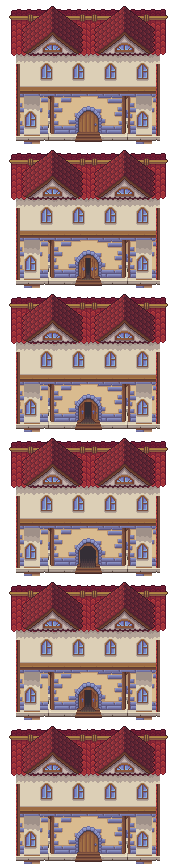
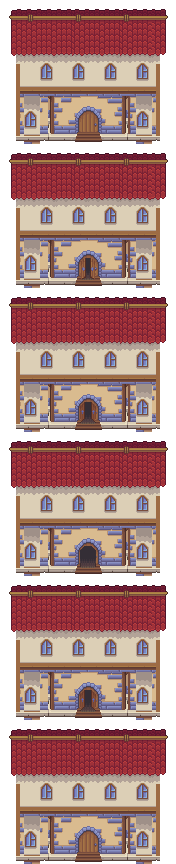
Clean native building seams, move spawn left and unify village labels

diff --git a/app/src/main/java/de/pixelabenteuer/game/MainActivity.java b/app/src/main/java/de/pixelabenteuer/game/MainActivity.java
@@ -39,6 +39,9 @@ public class MainActivity extends Activity {
  class Game extends View {
   final int WORLD_W=1600,WORLD_H=1000;
   Canvas canvas;Paint paint=new Paint();Random random=new Random(42);
+  final Typeface residentTypeface=Typeface.create("cursive",Typeface.NORMAL);
+  final Typeface buildingTypeface=Typeface.create("serif",Typeface.BOLD_ITALIC);
+  static final float RESIDENT_LABEL_SIZE=13f,BUILDING_LABEL_SIZE=13f;
   ArrayList<Mob> mobs=new ArrayList<>();ArrayList<Decoration> decorations=new ArrayList<>();ArrayList<Drop> drops=new ArrayList<>();LinkedHashMap<String,Integer> inventory=new LinkedHashMap<>();HashMap<String,Bitmap> itemImages=new HashMap<>();
   HashMap<String,Item> definitions=new HashMap<>();HashMap<String,String> equipped=new HashMap<>();
   int nextGearId=1;
@@ -64,7 +67,7 @@ public class MainActivity extends Activity {
   String[] sellerStock={"Apple","Green Apple","Ham","Cheese","Mushroom","Healthpotion","Healthpotion large","Healpotion med"};
   String pickupNotice="";float noticeTime=0;
   HashMap<String,Bitmap> sprites=new HashMap<>();HashMap<String,Bitmap> characterSheets=new HashMap<>();
-  static final float SPAWN_X=410,SPAWN_Y=191;
+  static final float SPAWN_X=184,SPAWN_Y=191;
   float px=SPAWN_X,py=SPAWN_Y,joyX=0,joyY=0,elapsed=0,worldTime=0,attackAnim=0,hurtAnim=0,deathAnim=0,attackCooldown=0,playerHealthVisible=0;
   int hp=12,maxHp=12,kills=0,animalKills=0,playerDir=0,playerLevel=1,exp=0,attackPower=3,lastPlayerDamage=0;float playerDamageTime=0;float swordTimer=0;boolean sword=false;
   long previous=System.nanoTime();
@@ -398,7 +401,7 @@ public class MainActivity extends Activity {
     Bitmap sprite=villageArt.get(houseArt);
     if(sprite!=null)villageTile(houseDoorFrame(index)>0?"door"+index:houseArt,0,houseDoorFrame(index)*sprite.getHeight(),sprite.getWidth(),sprite.getHeight(),h[0]-sprite.getWidth()*.8f,h[1]+115-sprite.getHeight()*1.6f,sprite.getWidth()*1.6f,sprite.getHeight()*1.6f);
     if(index==1||index==4)villageTile("chimney_animation",0,((int)(elapsed*5)%6)*48,48,48,h[0]-144*.8f+17*1.6f,h[1]+115-128*1.6f+2*1.6f,48*1.6f,48*1.6f);
-    paint.setTextAlign(Paint.Align.CENTER);paint.setTextSize(13);fantasyName(villageNames[index],h[0],h[1]+105-(sprite==null?205:sprite.getHeight()*1.6f));paint.setTextAlign(Paint.Align.LEFT);
+    drawBuildingName(villageNames[index],h[0],h[1]+105-(sprite==null?205:sprite.getHeight()*1.6f));
    }
    // Six 48px cells: crop only the smoke above the embedded chimney/roof.
    if(index==0)villageTile("Smoke_animation",((int)(elapsed*5)%6)*48,0,32,28,h[0]-(index==0?65:78),h[1]-(index==0?162:106),45,39);
@@ -407,7 +410,9 @@ public class MainActivity extends Activity {
   void drawVillageProp(VillageProp p){
    int sy=p.sy+(p.frames>1?((int)(elapsed*6+p.x/70)%p.frames)*p.sh:0);
    canvas.save();if(!p.atlas.equals("shrine"))canvas.scale(1f,1f/CAMERA_GROUND_Y,p.x,p.y);
-   villageTile(p.atlas,p.sx,sy,p.sw,p.sh,p.x-p.w/2,p.y-p.h,p.w,p.h);canvas.restore();
+   villageTile(p.atlas,p.sx,sy,p.sw,p.sh,p.x-p.w/2,p.y-p.h,p.w,p.h);
+   if(p.atlas.equals("tower"))drawBuildingName("Wachturm",p.x,p.y-p.h-10);
+   canvas.restore();
   }
   boolean villageObstacle(float x,float y){
    for(int i=1;i<villageHouses.length;i++){float[] h=villageHouses[i];if(Math.abs(x-h[0]-villageDoorOffsets[i])<20&&y>h[1]+94)continue;if(x>h[0]-111&&x<h[0]+112&&y>h[1]+48&&y<h[1]+116)return true;}
@@ -461,10 +466,12 @@ public class MainActivity extends Activity {
    n.speak();if(n.merchant>=0)showMerchant(n.merchant);return true;
   }
   void drawNameTitle(String name,String title,float x,float y){
+   canvas.save();if(!indoors)canvas.scale(1f/1.10f,1f/1.10f,x,y);
+   boolean antialias=paint.isAntiAlias();paint.setAntiAlias(true);
    Paint.Align align=paint.getTextAlign();Typeface face=paint.getTypeface();float size=paint.getTextSize();int color=paint.getColor();
-   paint.setTextAlign(Paint.Align.CENTER);paint.setTypeface(Typeface.DEFAULT_BOLD);paint.setTextSize(12);paint.setColor(col("#fff0c8"));outlinedText(name,x,y);
-   paint.setTextSize(10);paint.setColor(col("#c28aff"));outlinedText(title,x,y+12);
-   paint.setTextAlign(align);paint.setTypeface(face);paint.setTextSize(size);paint.setColor(color);
+   paint.setTextAlign(Paint.Align.CENTER);paint.setTypeface(residentTypeface);paint.setTextSize(RESIDENT_LABEL_SIZE);paint.setColor(col("#fff0c8"));outlinedText(name,x,y);
+   paint.setColor(col("#c28aff"));outlinedText(title,x,y+15);
+   paint.setTextAlign(align);paint.setTypeface(face);paint.setTextSize(size);paint.setColor(color);paint.setAntiAlias(antialias);canvas.restore();
   }
   void drawResidentSpeech(VillageResidents.Resident n,float x,float y){
    if(n.speechTime<=0||n.speech.isEmpty())return;
@@ -593,7 +600,7 @@ public class MainActivity extends Activity {
    paint.setTextAlign(Paint.Align.CENTER);paint.setTextSize(12);paint.setColor(col("#fff2d5"));
    if(guild&&room<2){fantasyName("Treppe nach oben",l+592,t+230);}
    if(guild&&room>0){fantasyName("Treppe nach unten",l+80,t+230);}
-   paint.setTextSize(13);fantasyName(guild?"GILDE · "+guildFloorNames[room]:villageNames[interiorHouseIndex()],l+336,t+18);
+   drawBuildingName(guild?"Gilde · "+guildFloorNames[room]:villageNames[interiorHouseIndex()],l+336,t+18);
    if(!guild||room==0)fantasyName("Ausgang",l+336,t+344);
    paint.setTextAlign(Paint.Align.LEFT);
   }
@@ -725,7 +732,7 @@ public class MainActivity extends Activity {
    tile("Exterior_house",70,162,32,38,x-117,y+113,50,52); // crates
    tile("Exterior_house",116,160,34,34,x+97,y+66,55,55); // complete cart
    paint.setColor(col("#f5d795"));paint.setTextAlign(Paint.Align.CENTER);paint.setTextSize(10);
-   paint.setTextSize(20);fantasyName("Schmiede",x,y-150);paint.setTextAlign(Paint.Align.LEFT);
+   drawBuildingName(villageNames[0],x,y-150);paint.setTextAlign(Paint.Align.LEFT);
   }
   // Door anchors are shared by the automatic movement triggers and teleportation.
   final float DOOR_OUT_X=0f,DOOR_OUT_Y=102f;
@@ -835,7 +842,8 @@ public class MainActivity extends Activity {
    String indoorAction=hp<=0?"death":doorTimer>0?"walk":hurtAnim>0?"hurt":attackAnim>0&&sword?"attack":Math.abs(joyX)+Math.abs(joyY)>.08f?(sprintHeld?"run":"walk"):"idle";
    drawSprite(sword?"player_sword":"player_unarmed",indoorAction,playerDir,cx,cy,88.704f,88.704f,hp<=0?deathAnim:attackAnim>0?.4f-attackAnim:elapsed,hp<=0&&deathAnim>.8f);
    paint.setColor(col("#fff2d5"));paint.setTextSize(13);
-   canvas.drawText("SCHMIEDE  |  Ausgang unten mittig",l+221,t+345,paint);
+   drawBuildingName(villageNames[0],l+340,t+18);
+   canvas.drawText("Ausgang unten mittig",l+263,t+345,paint);
   }
   void loadSprites(){
    String[] kinds={"boar","fox","deer","black_grouse","orc1","orc2","orc3","player_sword","player_unarmed"};
@@ -1673,6 +1681,13 @@ public class MainActivity extends Activity {
    canvas.restore();
    paint.setColor(col("#f5e8cb"));paint.setTextSize(10);paint.setTextAlign(Paint.Align.CENTER);
    canvas.drawText("N",x+size/2,y+11,paint);paint.setTextAlign(Paint.Align.LEFT);
+  }
+  void drawBuildingName(String name,float x,float y){
+   canvas.save();if(!indoors)canvas.scale(1f/1.10f,1f/1.10f,x,y);
+   boolean antialias=paint.isAntiAlias();paint.setAntiAlias(true);
+   Paint.Align align=paint.getTextAlign();Typeface face=paint.getTypeface();float size=paint.getTextSize();int color=paint.getColor();
+   paint.setTextAlign(Paint.Align.CENTER);paint.setTypeface(buildingTypeface);paint.setTextSize(BUILDING_LABEL_SIZE);paint.setColor(col("#f5d795"));outlinedText(name,x,y);
+   paint.setTextAlign(align);paint.setTypeface(face);paint.setTextSize(size);paint.setColor(color);paint.setAntiAlias(antialias);canvas.restore();
   }
   void fantasyName(String value,float x,float y){
    Typeface old=paint.getTypeface();float oldSize=paint.getTextSize();

diff --git a/scripts/build_native_watchtower.py b/scripts/build_native_watchtower.py
@@ -11,20 +11,23 @@ out=Image.new('RGBA',(160,208))
 for y in range(96,208,16):
  for x in range(48,112,16):out.alpha_composite(street.crop((48+(x//16%2)*16,16,64+(x//16%2)*16,32)),(x,y))
  for x,sx in [(44,48),(112,76)]:out.alpha_composite(street.crop((sx,16,sx+4,32)),(x,y))
-# Complete original wooden lookout storey and original roof pieces.
-out.alpha_composite(piece(forge,(144,87,256,124)),(24,64))
-beam=forge.crop((151,88,155,104))
-for step in range(4):
- for x in [28+step*4,128-step*4]:out.alpha_composite(beam.crop((0,0,4,4)),(x,100+step*4))
-out.alpha_composite(piece(forge,(264,94,393,181)),(16,0))
-out.alpha_composite(piece(forge,(154,24,215,74)),(50,14))
+# Complete original timber storey and one continuous, native tiled roof.
+# The previous detached hip-roof crop contained cut ridge posts and mixed gables.
+out.alpha_composite(piece(forge,(144,87,256,120)),(24,64))
+roof=Image.new('RGBA',(128,64))
+roof.alpha_composite(Image.open(root/'app/src/main/assets/village/guild/Exterior(1).png').convert('RGBA').crop((160,0,176,64)),(0,0))
+hall=Image.open(root/'app/src/main/assets/village/guild/Exterior(1).png').convert('RGBA')
+for x in range(16,112,16):roof.alpha_composite(hall.crop((176+(x//16%3)*16,0,192+(x//16%3)*16,64)),(x,0))
+roof.alpha_composite(hall.crop((240,0,256,64)),(112,0))
+out.alpha_composite(roof,(16,8))
+# Matched wooden corbels copied whole from the lookout, no floating stair pixels.
 # Original blue-grey wall windows and original small arched door.
 for y in [120,152]:out.alpha_composite(ext.crop((24,100,40,120)),(72,y))
-for x in range(40,120,16):out.alpha_composite(ext.crop((24,124,40,128)),(x,204))
+for x in range(48,112,16):out.alpha_composite(street.crop((16,68,32,72)),(x,204))
 out.alpha_composite(ext.crop((100,96,124,128)),(68,176))
 a=np.array(out);a[:,:,3]=np.where(a[:,:,3]>=128,255,0);out=Image.fromarray(a)
 out.save(root/'art/source/watchtower-native.png')
 colors=sorted(set(map(tuple,a[a[:,:,3]>0,:3].tolist())))
 (root/'art/source/watchtower-palette.json').write_text(json.dumps(colors,indent=2)+'\n')
-(root/'art/WATCHTOWER.md').write_text('''# Native watchtower\n\nThe generated drafts were discarded after user feedback. The final `art/source/watchtower-native.png` is a 160x208 native sprite assembled from the original Exterior_house, exterior and Walls_street reference sheets. Original brick, timber, window, door and roof pixels are retained at 1:1 resolution. There is no image-generation illustration or color quantization in the final tower.\n\n`art/source/watchtower-palette.json` lists the exact opaque RGB colors copied from those sheets. Transparency is binary. The masonry pattern uses the source 16px tiles; native windows and the door retain their original size.\n''')
+(root/'art/WATCHTOWER.md').write_text('''# Native watchtower\n\nThe generated drafts were discarded after user feedback. The final `art/source/watchtower-native.png` is a 160x208 native sprite assembled from the original Exterior_house, Exterior(1), exterior and Walls_street reference sheets. Original brick, timber, window, door and roof pixels are retained at 1:1 resolution. There is no image-generation illustration or color quantization in the final tower.\n\n`art/source/watchtower-palette.json` lists the exact opaque RGB colors copied from those sheets. Transparency is binary. The masonry pattern uses the source 16px tiles; native windows and the door retain their original size. The roof is a single continuous red tile roof with closed end caps; there are no clipped ridge posts, mixed gables or loose diagonal pixels.\n''')
 print('Native tower',out.size,'original RGB colors',len(colors))

diff --git a/scripts/import_village_refinement.py b/scripts/import_village_refinement.py
@@ -27,7 +27,7 @@ for f in range(6):
    if y>=28 and not 14<=x<32 or y>=14 and x>=32 or r>g*1.2 and r>b*1.15:a[y,x,3]=0
  chimney.alpha_composite(Image.fromarray(a),(0,f*48))
 chimney.save(OUT/'chimney_animation.png')
-# Distinct long-front inn with two native gables, yellow plaster and small arches.
+# Distinct long-front inn: matching plaster, closed timber sides and one tiled roof.
 windows=Image.open(PACK/'Windows_doors.png').convert('RGBA')
 def component(im,box):
  from scipy.ndimage import label
@@ -42,19 +42,19 @@ for x in range(16,160,16):
  inn.alpha_composite(hall.crop((48,90,64,96)),(x,90))
  inn.alpha_composite(hall.crop((44,136,60,140)),(x,136))
 inn.alpha_composite(hall.crop((40,96,120,144)),(48,96))
-# Roof tiles are repeated as native strips, not stretched.
+# One continuous roof, with complete native left/right caps and aligned tiles.
 inn.alpha_composite(hall.crop((160,0,176,64)),(8,0))
-for x in [24,88]:inn.alpha_composite(hall.crop((176,0,240,64)),(x,0))
+for x in range(24,152,16):inn.alpha_composite(hall.crop((176+((x-24)//16%3)*16,0,192+((x-24)//16%3)*16,64)),(x,0))
 inn.alpha_composite(hall.crop((240,0,256,64)),(152,0))
-for x in [22,94]:inn.alpha_composite(component(forge,(154,24,215,74)),(x,6))
-# Original timber pillars close the two outer wall edges.
+# Actual timber from the facade. Roof pixels must never become wall pillars.
+beam=hall.crop((42,64,46,72))
 for y in range(64,136,8):
- for x in [16,156]:inn.alpha_composite(hall.crop((40,40,44,48)),(x,y))
+ for x in [16,156]:inn.alpha_composite(beam,(x,y))
 inn.save(OUT/'inn.png')
 # Straight, uninterrupted timber boundaries on the residence. No wing fragments.
 home=Image.open(OUT/'residence.png').convert('RGBA')
 for y in range(64,136,8):
- for x in [16,92]:home.alpha_composite(home.crop((x,40,x+4,48)),(x,y))
+ for x in [16,92]:home.alpha_composite(hall.crop((42,64,46,72)),(x,y))
 a=np.array(home);a[56:140,:16,3]=0;a[56:140,96:,3]=0;Image.fromarray(a).save(OUT/'residence.png')
 Image.open(ROOT/'art/source/watchtower-native.png').save(OUT/'tower.png')
 # Original directional grass: dark downward blades along a road's north edge,

diff --git a/scripts/export_resident_world.py b/scripts/export_resident_world.py
@@ -27,7 +27,8 @@ for x,y in houses[1:]:circle(x-100,y+132,19);circle(x+101,y+125,16)
 roads=Image.new('L',(1600,1000));rd=ImageDraw.Draw(roads)
 for r in [(160,195,450,235),(386,195,434,932),(666,450,714,932),(180,450,1210,490),(180,820,930,860),(430,442,666,570),(0,446,190,494),(920,446,1599,494),(386,0,434,220),(992,385,1028,470)]:rd.rectangle(r,fill=1)
 for (x,y),dx in zip(houses,offset):rd.rectangle((x+dx-20,y+100,x+dx+20,840 if y>500 else 470),fill=1)
-rd.ellipse((385,199,435,231),fill=0)
+spawn_x,spawn_y=map(float,re.search(r"SPAWN_X=([\d.]+),SPAWN_Y=([\d.]+)",s).groups())
+rd.ellipse((spawn_x-25,spawn_y+8,spawn_x+25,spawn_y+40),fill=0)
 entries=[]
 def sample(room,im,minx,miny,maxx,maxy,road=None):
  step=2;w=(maxx-minx)//step+1;h=(maxy-miny)//step+1;pix=im.load();buf=bytes(1 if pix[minx+x*step,miny+y*step] else 0 for y in range(h) for x in range(w));entries.append((room,minx,miny,step,w,h,buf))

diff --git a/scripts/verify_village_refinement.py b/scripts/verify_village_refinement.py
@@ -5,7 +5,7 @@ import json
 ROOT=Path(__file__).resolve().parents[1];assets=ROOT/'app/src/main/assets';v=assets/'village'
 def rgba(p):return Image.open(p).convert('RGBA')
 # Every final tower pixel must be an exact reference color, with hard transparency.
-references=[v/'exterior.png',v/'guild/Walls_street(1).png',assets/'sprites/Exterior_house.png']
+references=[v/'exterior.png',v/'guild/Walls_street(1).png',assets/'sprites/Exterior_house.png',v/'guild/Exterior(1).png']
 allowed=set()
 for p in references:
  allowed.update(c[:3] for c in rgba(p).get_flattened_data() if c[3]>0)

diff --git a/art/WATCHTOWER.md b/art/WATCHTOWER.md
@@ -1,5 +1,5 @@
 # Native watchtower
 
-The final `art/source/watchtower-native.png` is a 160x208 native sprite assembled from the original Exterior_house, exterior and Walls_street reference sheets. Original brick, timber, window, door and roof pixels are retained at 1:1 resolution. There is no image-generation illustration or color quantization in the final tower.
+The generated drafts were discarded after user feedback. The final `art/source/watchtower-native.png` is a 160x208 native sprite assembled from the original Exterior_house, Exterior(1), exterior and Walls_street reference sheets. Original brick, timber, window, door and roof pixels are retained at 1:1 resolution. There is no image-generation illustration or color quantization in the final tower.
 
-`art/source/watchtower-palette.json` lists the exact opaque RGB colors copied from those sheets. Transparency is binary. The masonry pattern uses the source 16px tiles; native windows and the door retain their original size.
+`art/source/watchtower-palette.json` lists the exact opaque RGB colors copied from those sheets. Transparency is binary. The masonry pattern uses the source 16px tiles; native windows and the door retain their original size. The roof is a single continuous red tile roof with closed end caps; there are no clipped ridge posts, mixed gables or loose diagonal pixels.

diff --git a/art/VILLAGE_RESIDENTS.md b/art/VILLAGE_RESIDENTS.md
@@ -29,3 +29,7 @@ Resident state is saved by ID. Loading updates existing identities rather than c
 The last village/video corrections remain in place: northern herb house, new inn/tower, original chimney animations, removed market armor stand/scattered signs/awning, right-side information board, completed forest borders, native grass details and edges, centered spawn pad, corrected night overlay, additional interiors and animated doors. No sprite or map asset was reverted for the resident update.
 
 The APK workflow runs the actual portable Java resident model against exported map/furniture geometry. It checks uniqueness, a simulated hour of village/house/stair visits, stationary characters, actor/player collision, dialogue and restoration before compiling Android. BlueStacks play testing is still required for final visual assessment.
+
+## Shared labels
+
+All 17 residents, including the three original smithy actors, use the same Android cursive typeface and 13 logical pixel size for both name and purple title. Outdoor labels cancel the 1.10 world zoom, so their text and line spacing have the same screen size as indoor labels. All building names, including the watchtower and interior headings, share one serif italic drawing routine at 13 logical pixels and the same gold color.
